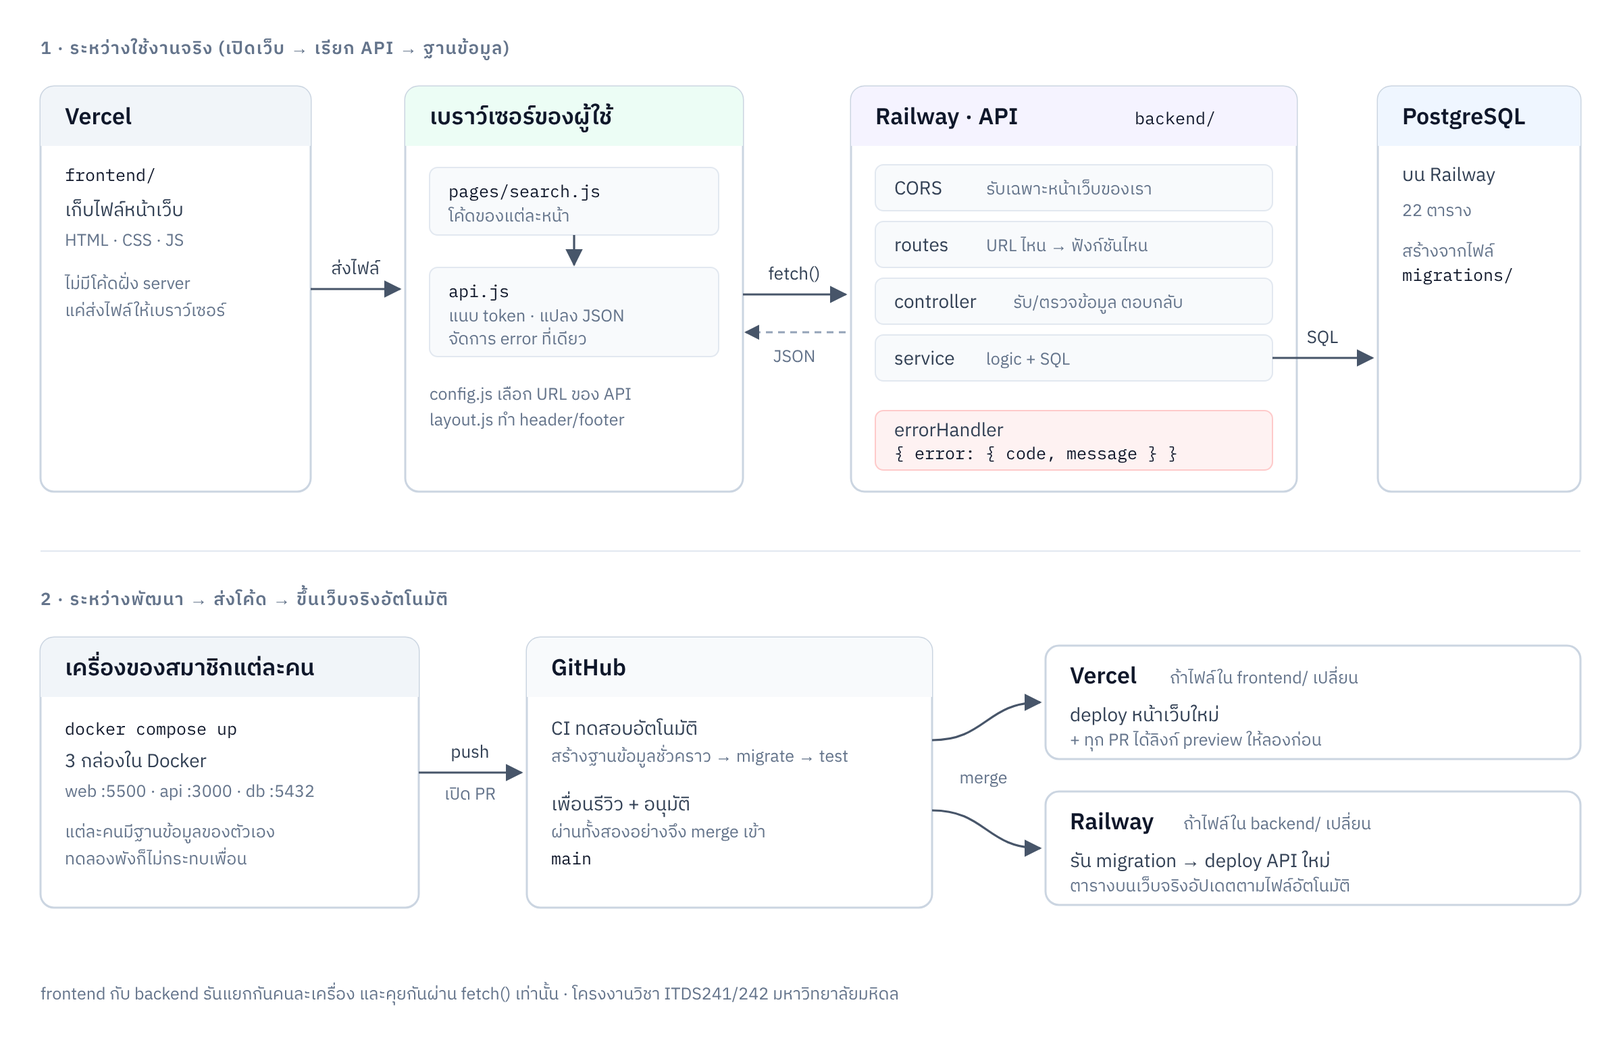
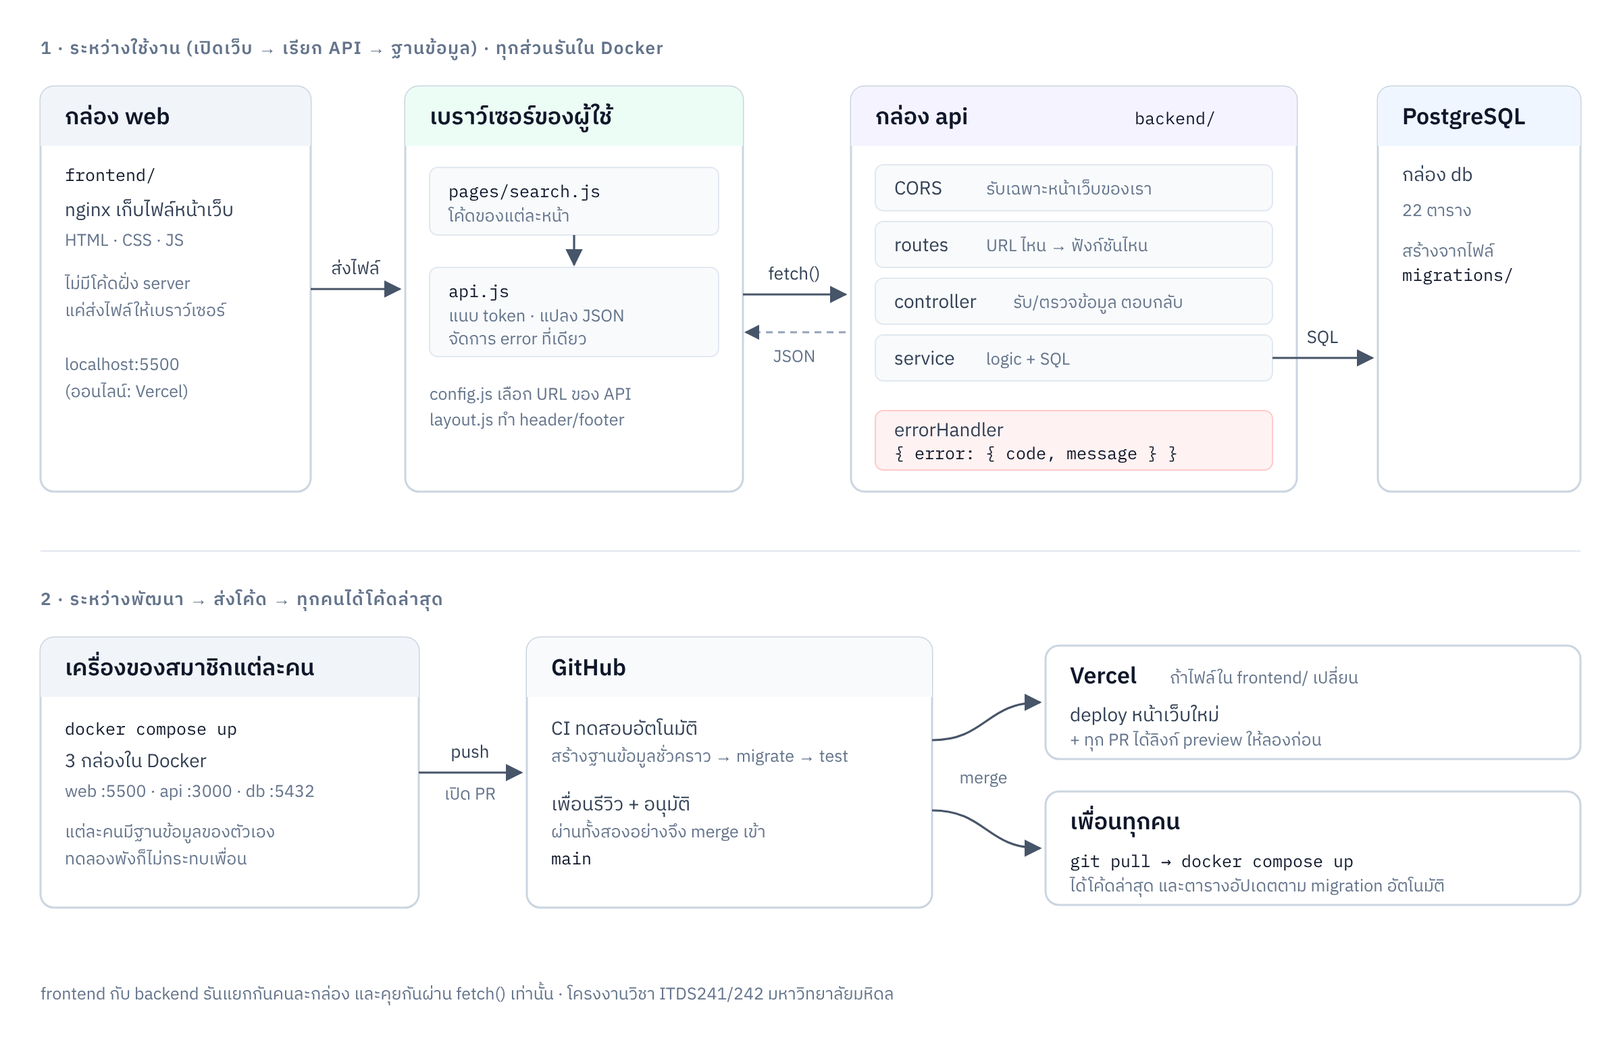
ตัด Railway ออก: API กับ PostgreSQL รันใน Docker, หน้าเว็บออนไลน์บน Vercel
- docs/deploy.md เหลือแค่ Vercel + ตั้งค่า GitHub และบอกข้อจำกัดที่ API ยังไม่ออนไลน์
- อัปเดตคอมเมนต์ในโค้ด, README, docs/api.md, docs/database และแผนผังระบบ

diff --git a/frontend/js/config.js b/frontend/js/config.js
@@ -1,9 +1,10 @@
 // ที่อยู่ของ API — เลือกให้อัตโนมัติจากว่าเปิดหน้าเว็บอยู่ที่ไหน
 // (frontend เป็น HTML/JS ล้วน ไม่มีขั้นตอน build จึงใช้ environment variable ของ Vercel ไม่ได้)
 //
-// TODO (R1): หลัง deploy backend บน Railway ครั้งแรก ให้เปลี่ยน PRODUCTION_API เป็น URL จริง
+// ตอนนี้ API รันใน Docker บนเครื่องเท่านั้น (ยังไม่มีที่ฝาก API ออนไลน์)
+// หน้าเว็บบน Vercel จึงยังเรียก API ไม่ได้ — ถ้าภายหลังเอา API ขึ้นออนไลน์ ให้ใส่ URL จริงที่ PRODUCTION_API
 const LOCAL_API = 'http://localhost:3000/api';
-const PRODUCTION_API = 'https://YOUR-BACKEND.up.railway.app/api';
+const PRODUCTION_API = 'https://YOUR-API-HOST/api'; // TODO: ยังไม่มี
 
 const isLocal = ['localhost', '127.0.0.1', ''].includes(window.location.hostname);
 

diff --git a/backend/src/app.js b/backend/src/app.js
@@ -9,7 +9,7 @@ const { notFound, errorHandler } = require('./middleware/errorHandler');
 const app = express();
 
 // ---------- CORS ----------
-// frontend (Vercel) กับ backend (Railway) อยู่คนละโดเมน เบราว์เซอร์จึงต้องได้รับอนุญาตก่อนเรียก API
+// หน้าเว็บ (localhost:5500 / Vercel) กับ API (localhost:3000) เป็นคนละ origin เบราว์เซอร์จึงต้องได้รับอนุญาตก่อนเรียก API
 app.use(
   cors({
     origin(origin, callback) {
@@ -28,7 +28,7 @@ app.use(
 app.use(express.json({ limit: '1mb' }));
 
 // ---------- Health check ----------
-// Railway ใช้ตรวจว่า deploy สำเร็จ และใช้ทดสอบว่า frontend ต่อ backend ได้
+// docker compose ใช้ตรวจว่ากล่อง api พร้อม และใช้ทดสอบว่า frontend ต่อ backend ได้
 app.get('/api/health', async (req, res) => {
   let db = 'ok';
   try {

diff --git a/backend/scripts/reset.js b/backend/scripts/reset.js
@@ -5,7 +5,7 @@
 //   1. ห้ามรันเมื่อ NODE_ENV=production
 //   2. รันได้เฉพาะฐานข้อมูลบนเครื่องตัวเอง (localhost / 127.0.0.1 / ::1)
 //      หรือกล่อง "db" ของ docker compose บนเครื่องตัวเอง
-//      ถ้า DATABASE_URL ชี้ไปที่ Railway หรือเครื่องอื่น จะปฏิเสธทันที
+//      ถ้า DATABASE_URL ชี้ไปที่เครื่องอื่น จะปฏิเสธทันที
 const path = require('path');
 const env = require('../src/config/env');
 const { pool } = require('../src/db/pool');

diff --git a/backend/src/server.js b/backend/src/server.js
@@ -7,7 +7,7 @@ const server = app.listen(env.port, () => {
   console.log(`API พร้อมใช้งานที่ http://localhost:${env.port}/api/health (${env.nodeEnv})`);
 });
 
-// ปิดการเชื่อมต่อให้เรียบร้อยตอน Railway สั่งหยุด/deploy ใหม่
+// ปิดการเชื่อมต่อให้เรียบร้อยตอน docker compose สั่งหยุดกล่อง
 function shutdown() {
   server.close(() => pool.end().then(() => process.exit(0)));
 }

diff --git a/backend/scripts/migrate.js b/backend/scripts/migrate.js
@@ -1,5 +1,5 @@
 // npm run db:migrate — สร้าง/แก้โครงสร้างตารางตามไฟล์ใน db/migrations
-// บน Railway ตั้งเป็น Pre-Deploy Command เพื่อให้รันก่อน deploy ทุกครั้ง
+// docker compose รันคำสั่งนี้ให้เองทุกครั้งที่เปิดกล่อง api
 const path = require('path');
 const { pool } = require('../src/db/pool');
 const { runSqlDir } = require('./sqlRunner');

diff --git a/docs/deploy.md b/docs/deploy.md
@@ -1,66 +1,23 @@
-# วิธี deploy (ทำครั้งเดียวโดย R1)
+# การนำขึ้นออนไลน์ และตั้งค่า GitHub (ทำครั้งเดียวโดย R1)
 
-พอตั้งค่าครบแล้ว ทุกครั้งที่ merge เข้า `main` ระบบจะ deploy ให้อัตโนมัติ
+## ภาพรวม
 
-- แก้ไฟล์ใน `backend/` → Railway จะ migrate แล้ว deploy API ใหม่
-- แก้ไฟล์ใน `frontend/` → Vercel จะ deploy หน้าเว็บใหม่
-- ทุก PR จะได้ preview URL จาก Vercel ไว้ลองหน้าเว็บก่อน merge
+| ส่วน | รันที่ไหน |
+|---|---|
+| หน้าเว็บ (`frontend/`) | Docker บนเครื่อง (กล่อง `web`) และออนไลน์บน **Vercel** |
+| API (`backend/`) | Docker บนเครื่องเท่านั้น (กล่อง `api`) |
+| ฐานข้อมูล PostgreSQL | Docker บนเครื่องเท่านั้น (กล่อง `db`) |
 
-ทำตามลำดับนี้ เพราะแต่ละฝั่งต้องรู้ URL ของอีกฝั่ง
+> **ข้อจำกัดตอนนี้:** API กับฐานข้อมูลยังไม่ได้ขึ้นออนไลน์ หน้าเว็บบน Vercel จึงเปิดได้และแสดงหน้าตาได้ แต่ส่วนที่ต้องดึงข้อมูล (ค้นหา ล็อกอิน ฯลฯ) จะใช้ไม่ได้
+> การเดโมแบบใช้งานได้ครบให้เปิดจากเครื่องที่รัน `docker compose up` ที่ http://localhost:5500
+> ถ้าภายหลังเอา API ขึ้นออนไลน์ ให้ใส่ URL ของ API ที่ `PRODUCTION_API` ใน `frontend/js/config.js` และเพิ่มโดเมน Vercel ใน `ALLOWED_ORIGINS` ของ API
 
 ---
 
-## 1. Railway — backend + ฐานข้อมูล
-
-1. เข้า [railway.com](https://railway.com) แล้ว Login with GitHub
-2. **New Project → Deploy from GitHub repo →** เลือก repo นี้
-3. คลิก service ที่ได้ แล้วไปที่ **Settings** ตั้งค่าตามนี้:
-
-   | ช่อง | ค่า |
-   |---|---|
-   | Root Directory | `backend` |
-   | Watch Paths | `/backend/**` |
-   | Pre-Deploy Command | `npm run db:migrate && npm run db:seed` |
-   | Start Command | `npm start` (มักตั้งให้อัตโนมัติอยู่แล้ว) |
-   | Healthcheck Path | `/api/health` |
-
-   ไฟล์ seed แต่ละไฟล์รันแค่ครั้งเดียว การใส่ `db:seed` ไว้ใน Pre-Deploy เลยปลอดภัย
-
-   Railway จะเจอ `backend/Dockerfile` แล้ว build กล่อง API จากไฟล์นี้ให้เอง (Node 24.21.0 ตัวเดียวกับที่ทีมใช้บนเครื่อง)
-
-4. **เพิ่มฐานข้อมูล:** ในโปรเจกต์กด **+ Create**
-   - ถ้า R4 ต้องใช้ semantic search ที่เก็บ embedding ใน Postgres → เลือก **Template** แล้วค้นหา **pgvector**
-   - ถ้าไม่ต้องใช้ → เลือก **Database → PostgreSQL**
-
-   > ต้องตัดสินใจตรงนี้ก่อน เพราะ Postgres ปกติของ Railway ไม่มี pgvector ถ้าเปลี่ยนทีหลังต้องย้ายข้อมูลใหม่
-
-5. ที่ service backend ไปที่ **Variables** แล้วเพิ่มค่าเหล่านี้:
-
-   | ชื่อ | ค่า |
-   |---|---|
-   | `DATABASE_URL` | `${{Postgres.DATABASE_URL}}` (เปลี่ยน `Postgres` เป็นชื่อ service ฐานข้อมูลจริง เช่น `pgvector`) |
-   | `NODE_ENV` | `production` |
-   | `JWT_SECRET` | ข้อความสุ่มยาว ๆ (สร้างด้วย `node -e "console.log(require('crypto').randomBytes(32).toString('hex'))"`) |
-   | `ALLOWED_ORIGINS` | เว้นไว้ก่อน แล้วค่อยใส่ในขั้นที่ 3 |
-   | `ALLOWED_ORIGIN_REGEX` | เว้นไว้ก่อน แล้วค่อยใส่ในขั้นที่ 3 |
-
-6. ไปที่ **Settings → Networking → Generate Domain** จะได้ URL หน้าตาประมาณ `https://maison-de-relic-production.up.railway.app`
-7. เปิด `<URL>/api/health` ในเบราว์เซอร์ ต้องเห็น `"db":"ok"`
-
-## 2. ใส่ URL ของ backend ให้หน้าเว็บรู้จัก
-
-แก้ไฟล์ `frontend/js/config.js`:
-
-```js
-const PRODUCTION_API = 'https://maison-de-relic-production.up.railway.app/api';
-```
-
-แล้ว commit และ push
-
-## 3. Vercel — หน้าเว็บ
+## 1. Vercel — หน้าเว็บ
 
 1. เข้า [vercel.com](https://vercel.com) แล้ว Continue with GitHub
-2. **Add New → Project →** import repo นี้
+2. **Add New → Project →** import repo `maison-de-relic`
 3. ตั้งค่า:
 
    | ช่อง | ค่า |
@@ -70,34 +27,24 @@ const PRODUCTION_API = 'https://maison-de-relic-production.up.railway.app/api';
    | Build Command | เว้นว่าง (ไม่มีขั้นตอน build) |
 
 4. กด Deploy จะได้ URL เช่น `https://maison-de-relic.vercel.app`
-5. **กลับไปที่ Railway → Variables** แล้วใส่:
-   - `ALLOWED_ORIGINS` = `https://maison-de-relic.vercel.app`
-   - `ALLOWED_ORIGIN_REGEX` = `^https://maison-de-relic(-[a-z0-9-]+)?\.vercel\.app$` (เพื่อให้ preview ของแต่ละ PR เรียก API ได้ด้วย)
 
-## 4. ทดสอบ
+หลังจากนี้ทุกครั้งที่ merge เข้า `main` และมีไฟล์ใน `frontend/` เปลี่ยน Vercel จะ deploy ให้เอง และทุก PR จะได้ลิงก์ preview ไว้ดูหน้าตาก่อน merge
+(`frontend/vercel.json` ตั้งให้ข้ามการ deploy ถ้าไม่มีอะไรใน `frontend/` เปลี่ยน)
 
-เปิดหน้าแรกบน Vercel ด้านล่างต้องขึ้นว่า **"API เชื่อมต่อแล้ว · ฐานข้อมูล: ok"**
+---
 
-| ถ้าขึ้นว่า | สาเหตุที่น่าจะเป็น |
-|---|---|
-| เชื่อมต่อเซิร์ฟเวอร์ไม่ได้ | `PRODUCTION_API` ใน config.js ผิด หรือโดน CORS บล็อก ให้ตรวจ `ALLOWED_ORIGINS` บน Railway (ต้องตรงทุกตัวอักษร ห้ามมี `/` ปิดท้าย) |
-| ฐานข้อมูล: down | `DATABASE_URL` บน Railway ผิด |
+## 2. GitHub — ตั้งค่าให้ทีม
 
-## 5. ตั้งค่า GitHub ให้ทีม
-
-1. **Settings → Collaborators →** เชิญเพื่อนทั้ง 4 คน
+1. **Settings → Collaborators →** เชิญสมาชิก (ทำแล้ว)
 2. **Settings → Branches → Add branch ruleset** (หรือ Add rule) สำหรับ `main`:
    - Require a pull request before merging โดยต้องมี approval 1 คน
-   - Require status checks to pass แล้วเลือก `backend` (มาจาก CI)
+   - Require status checks to pass แล้วเลือก `backend` และ `docker` (มาจาก CI)
    - Block force pushes
-3. แก้ `.github/CODEOWNERS` ใส่ GitHub username ของเพื่อน
+3. `.github/CODEOWNERS` ใส่ username ของทุกคนแล้ว
+
+---
 
 ## รูปภาพที่อัปโหลด (แจ้ง R3)
 
-ไฟล์ที่ server เขียนลงดิสก์บน Railway **จะหายทุกครั้งที่ deploy ใหม่** ถ้าระบบให้แอดมินอัปโหลดรูปสินค้า มีให้เลือก 2 ทาง:
-- ต่อ **Volume** ให้ service backend (Railway → service → Settings → Volumes, แพ็กเกจ Hobby ได้สูงสุด 5 GB)
-- หรือเก็บรูปไว้ที่บริการภายนอก แล้วบันทึกแค่ URL ลงในตาราง ProductImage
-
-## ค่าใช้จ่าย
-
-แพ็กเกจ Hobby ของ Railway ราคา $5 ต่อเดือน รวมค่าใช้งาน $5 แล้ว โปรเจกต์ขนาดนี้น่าจะไม่เกิน ส่วน Vercel ใช้แพ็กเกจ Hobby ฟรีได้
+ถ้าระบบให้แอดมินอัปโหลดรูปสินค้า ให้เก็บไฟล์ไว้ใน `backend/uploads/` (ไม่ขึ้น GitHub ตามที่ตั้งไว้ใน `.gitignore`) แล้วบันทึกแค่ path ลงในตาราง ProductImage
+ถ้าต้องการให้รูปตัวอย่างมีอยู่บนเครื่องทุกคน ให้วางไว้ใน `frontend/assets/products/` แล้วอ้างถึงจาก seed แทน

diff --git a/docs/database/README.md b/docs/database/README.md
@@ -1,6 +1,6 @@
 # ฐานข้อมูล
 
-- **DBMS:** PostgreSQL 16 (บนเครื่องรันผ่าน Docker ส่วน production อยู่บน Railway)
+- **DBMS:** PostgreSQL 16 รันในกล่อง `db` ของ docker compose
 - **โครงสร้างตาราง:** อยู่ใน `backend/db/migrations/` ซึ่งเป็นตัวจริงที่ใช้สร้างฐานข้อมูล
 - **ข้อมูลตัวอย่าง:** อยู่ใน `backend/db/seeds/`
 - โฟลเดอร์นี้ใช้เก็บเอกสารประกอบ เช่น ภาพ ER Diagram และ Data Dictionary สำหรับใส่ในรายงาน
@@ -11,9 +11,9 @@
 2. เขียน SQL เช่น `ALTER TABLE ...` หรือ `CREATE TABLE ...`
 3. รัน `docker compose exec api npm run db:migrate` (หรือปิดแล้ว `docker compose up` ใหม่) เพื่อทดสอบบนเครื่องตัวเอง
 4. เปิด PR ไฟล์ใน `backend/db/` ต้องให้ Tech Lead รีวิว
-5. พอ merge เข้า main แล้ว Railway จะรัน migration ให้อัตโนมัติก่อน deploy
+5. พอ merge เข้า main แล้ว เพื่อนแค่ `git pull` แล้ว `docker compose up` ระบบจะรัน migration ให้เอง
 
-> **ห้ามแก้ไฟล์ migration ที่ merge ไปแล้ว** ฐานข้อมูลบน Railway และบนเครื่องเพื่อนรันไฟล์นั้นไปแล้ว ถ้าแก้ ระบบจะไม่รันซ้ำ แล้วโครงสร้างของแต่ละที่จะไม่ตรงกัน
+> **ห้ามแก้ไฟล์ migration ที่ merge ไปแล้ว** ฐานข้อมูลบนเครื่องเพื่อนทุกคนรันไฟล์นั้นไปแล้ว ถ้าแก้ ระบบจะไม่รันซ้ำ แล้วโครงสร้างของแต่ละที่จะไม่ตรงกัน
 
 ## ฐานข้อมูลบนเครื่องเละ อยากเริ่มใหม่
 
@@ -21,7 +21,7 @@
 docker compose exec api npm run db:reset    # ลบทุกตาราง แล้ว migrate + seed ใหม่
 ```
 
-คำสั่งนี้ทำงานได้เฉพาะเมื่อ `DATABASE_URL` ชี้ไปที่เครื่องตัวเอง (localhost หรือกล่อง `db` ของ docker compose) ถ้าชี้ไปที่ Railway หรือที่อื่น ระบบจะปฏิเสธทันที เพื่อกันไม่ให้เผลอลบฐานข้อมูลจริงหรือฐานข้อมูลที่ใช้ร่วมกันทั้งทีม
+คำสั่งนี้ทำงานได้เฉพาะเมื่อ `DATABASE_URL` ชี้ไปที่เครื่องตัวเอง (localhost หรือกล่อง `db` ของ docker compose) ถ้าชี้ไปที่เครื่องอื่น ระบบจะปฏิเสธทันที เพื่อกันไม่ให้เผลอลบฐานข้อมูลที่ไม่ใช่ของตัวเอง
 
 ## เปิดดูข้อมูลด้วยโปรแกรม (DBeaver / TablePlus / pgAdmin)
 

diff --git a/README.md b/README.md
@@ -2,11 +2,11 @@
 
 โครงงานวิชา ITDS241/242 มหาวิทยาลัยมหิดล
 
-| ส่วน | เทคโนโลยี | บนเครื่อง (Docker) | ออนไลน์ |
-|---|---|---|---|
-| หน้าเว็บ | HTML + CSS + Vanilla JavaScript | กล่อง `web` (nginx) | Vercel |
-| API | Node.js 24 + Express | กล่อง `api` | Railway |
-| ฐานข้อมูล | PostgreSQL 16 | กล่อง `db` | Railway |
+| ส่วน | เทคโนโลยี | รันที่ |
+|---|---|---|
+| หน้าเว็บ | HTML + CSS + Vanilla JavaScript | กล่อง `web` (nginx) ใน Docker · ออนไลน์บน Vercel |
+| API | Node.js 24 + Express | กล่อง `api` ใน Docker |
+| ฐานข้อมูล | PostgreSQL 16 | กล่อง `db` ใน Docker |
 
 หน้าเว็บกับ API รันแยกกัน และคุยกันผ่าน `fetch()` เท่านั้น ตามข้อกำหนดของวิชา
 
@@ -90,7 +90,7 @@ frontend/                 หน้าเว็บ (กล่อง web / ออ
    ├─ utils.js            escapeHtml, formatBaht
    └─ pages/              โค้ดของแต่ละหน้า
 
-backend/                  API (กล่อง api / ออนไลน์บน Railway)
+backend/                  API (กล่อง api)
 ├─ Dockerfile             สูตรสร้างกล่อง api (Node 24.21.0)
 ├─ src/
 │  ├─ app.js              ประกอบ middleware + routes
@@ -106,7 +106,7 @@ backend/                  API (กล่อง api / ออนไลน์บน
 
 docs/
 ├─ api.md                 ข้อตกลง API + รายการ endpoint
-├─ deploy.md              วิธีตั้งค่า Vercel / Railway / GitHub
+├─ deploy.md              วิธีตั้งค่า Vercel และ GitHub
 └─ database/              ER Diagram, Data Dictionary
 ```
 

diff --git a/docs/api.md b/docs/api.md
@@ -7,7 +7,7 @@
 | ที่ไหน | Base URL |
 |---|---|
 | บนเครื่อง | `http://localhost:3000/api` |
-| Production | `https://<backend>.up.railway.app/api` (ตั้งใน `frontend/js/config.js`) |
+| ออนไลน์ | ยังไม่มี — API รันใน Docker บนเครื่องเท่านั้น (ตั้งได้ที่ `frontend/js/config.js`) |
 
 ## ตั้งชื่อ endpoint
 
@@ -68,7 +68,7 @@ error จาก PostgreSQL ที่เจอบ่อย เช่น ข้อ
 ## การล็อกอิน (R2 กำหนดรายละเอียด)
 
 - หน้าเว็บส่ง token มากับ header `Authorization: Bearer <token>` ซึ่ง `api.js` แนบให้อัตโนมัติ
-- ห้ามใช้ cookie session เพราะ frontend (vercel.app) กับ backend (railway.app) เป็นคนละเว็บ เบราว์เซอร์จะบล็อก cookie
+- ใช้ token ใน header แทน cookie session เพราะหน้าเว็บกับ API เป็นคนละ origin และถ้าวันหลังย้ายขึ้นออนไลน์คนละโดเมน cookie จะโดนเบราว์เซอร์บล็อก
 
 ## รายการ API (เจ้าของ endpoint เป็นคนเติม)
 
